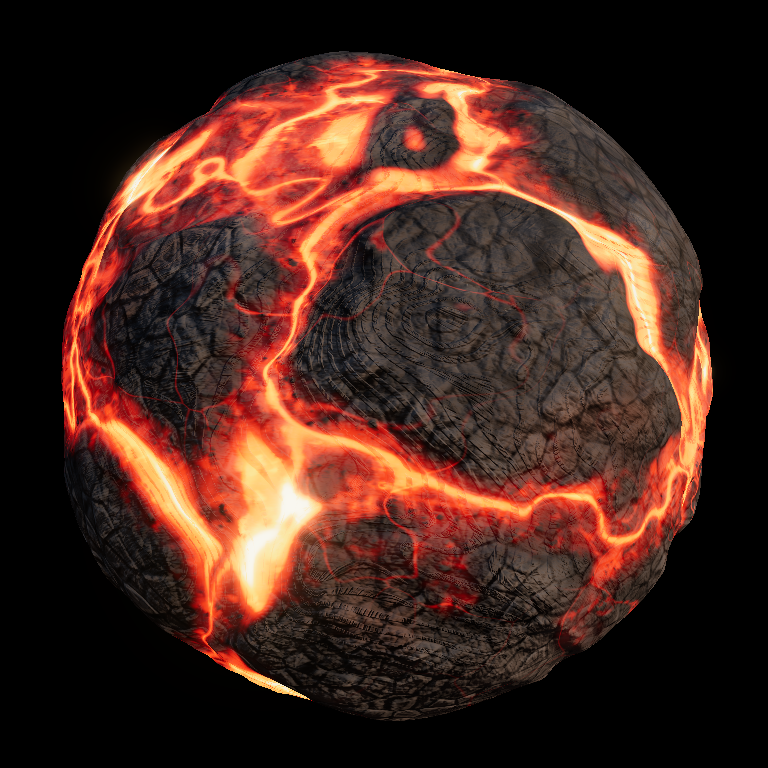
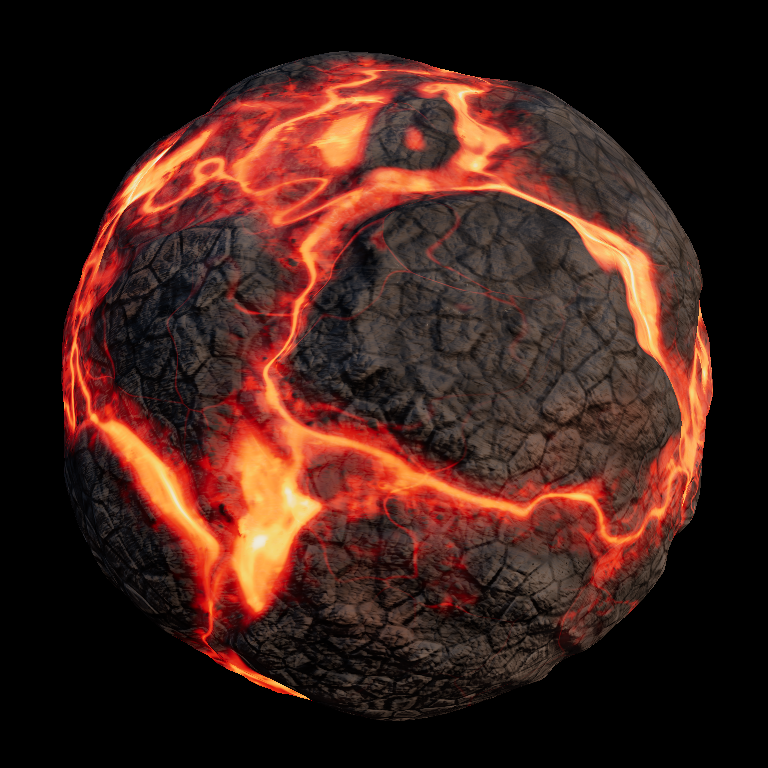
Replace line striations with a Substance-style cooling-skin field
The thin-cord formula never looked right: lines stayed line-like
however they were pinched. Following a Substance Designer lava
breakdown, meltSkin is now anisotropic streak noise under perlin
directional warps, soft like a blurred mask — streaks that widen,
merge, and die out organically. Where the skin fills in, the heat
drops AND the band carves out of the liquid mask, so cooled skin
shades as rock (albedo, roughness, PBR) instead of just dimming — the
fuller the band, the more rock it is. The skin embosses melt normals
only; the rock carries no lines at all now. Glow intensity drops to
1.6 and bloom tightens so the melt sits on the tonemapper's slope and
the skin texture survives instead of saturating to white. Preview
regenerated.

Claude-Session: https://claude.ai/code/session_016LagSa3e7nym5icJi3TRmZ

diff --git a/examples/three-tsl/src/lava-material.ts b/examples/three-tsl/src/lava-material.ts
@@ -4,7 +4,7 @@ import type { Node } from "three/webgpu";
 import lavaModule from "./lava.wgsl";
 import { tslExports } from "./wgsl-tsl.ts";
 
-const { lavaGlow, blackbody, crustHeight, crustRelief, crustSurface, crustPbr, lavaSink, microDetail, flowStriations } = tslExports(lavaModule, [
+const { lavaGlow, blackbody, crustHeight, crustRelief, crustSurface, crustPbr, lavaSink, microDetail, meltSkin } = tslExports(lavaModule, [
   "lavaGlow",
   "blackbody",
   "crustHeight",
@@ -13,7 +13,7 @@ const { lavaGlow, blackbody, crustHeight, crustRelief, crustSurface, crustPbr, l
   "crustPbr",
   "lavaSink",
   "microDetail",
-  "flowStriations",
+  "meltSkin",
 ]);
 
 export interface LavaMaterialOptions {
@@ -35,7 +35,7 @@ export interface LavaMaterial {
  * loader; three only sees TSL nodes.
  */
 export function createLavaMaterial(options: LavaMaterialOptions = {}): LavaMaterial {
-  const glowIntensity = uniform(2.4);
+  const glowIntensity = uniform(1.6);
   const scale = uniform(1.0);
   const t = options.timeNode ?? time;
 
@@ -138,21 +138,22 @@ export function createLavaMaterial(options: LavaMaterialOptions = {}): LavaMater
   ).div(microEps);
   const microTangent = microGrad.sub(normalLocal.mul(microGrad.dot(normalLocal)));
 
-  // The flow cords are physical wrinkles in the melt skin: finite-difference
-  // the striation field so each cord raises a small ridge, molten areas only.
-  const striaeEps = 0.004;
-  const striaeBase = flowStriations({ position: p, t });
-  const striaeGrad = vec3(
-    flowStriations({ position: p.add(vec3(striaeEps, 0, 0)), t }).sub(striaeBase),
-    flowStriations({ position: p.add(vec3(0, striaeEps, 0)), t }).sub(striaeBase),
-    flowStriations({ position: p.add(vec3(0, 0, striaeEps)), t }).sub(striaeBase),
-  ).div(striaeEps);
-  const striaeTangent = striaeGrad.sub(normalLocal.mul(striaeGrad.dot(normalLocal)));
+  // The cooled skin bands are physical ridges on the melt: finite-difference
+  // the skin field so they emboss the surface — molten areas only, the rock
+  // never carries these lines.
+  const skinEps = 0.006;
+  const skinBase = meltSkin({ position: p, t });
+  const skinGrad = vec3(
+    meltSkin({ position: p.add(vec3(skinEps, 0, 0)), t }).sub(skinBase),
+    meltSkin({ position: p.add(vec3(0, skinEps, 0)), t }).sub(skinBase),
+    meltSkin({ position: p.add(vec3(0, 0, skinEps)), t }).sub(skinBase),
+  ).div(skinEps);
+  const skinTangent = skinGrad.sub(normalLocal.mul(skinGrad.dot(normalLocal)));
 
   const bumped = normalLocal
     .sub(tangentGrad.mul(mix(float(0.16), float(0.04), molten)))
     .sub(microTangent.mul(mix(float(0.022), float(0.008), molten).mul(microFade)))
-    .sub(striaeTangent.mul(mix(float(0.006), float(0.012), molten).mul(striaeFade)))
+    .sub(skinTangent.mul(molten.mul(0.014).mul(striaeFade)))
     .normalize();
   material.normalNode = transformNormalToView(bumped);
 

diff --git a/examples/three-tsl/scripts/field-viz.ts b/examples/three-tsl/scripts/field-viz.ts
@@ -3,7 +3,7 @@
 // (heat through the blackbody ramp, melt mask, striations, crust height)
 // on the same 2D slice the plane demo shows.
 //
-//   pnpm --filter @vgpu/example-three-tsl field-viz [heat|melt|striae|crust ...]
+//   pnpm --filter @vgpu/example-three-tsl field-viz [heat|melt|skin|crust ...]
 //
 // Needs the same Vulkan ICD environment as generate-previews.ts.
 import { mkdirSync, writeFileSync } from "node:fs";
@@ -17,11 +17,11 @@ const FRAME_TIME = 8;
 const EXAMPLE_DIR = fileURLToPath(new URL("../", import.meta.url));
 const OUT_DIR = `${EXAMPLE_DIR}field-viz/`;
 
-const MODES: Record<string, number> = { heat: 0, melt: 1, striae: 2, crust: 3 };
+const MODES: Record<string, number> = { heat: 0, melt: 1, skin: 2, crust: 3 };
 
 const VIZ_ENTRY = `${OUT_DIR}entry.wgsl`;
 const VIZ_SOURCE = /* wgsl */ `
-import { lavaGlow, flowStriations, blackbody, crustHeight } from "../src/lava.wgsl";
+import { lavaGlow, meltSkin, blackbody, crustHeight } from "../src/lava.wgsl";
 
 struct Params { mode: f32, t: f32, span: f32, center: vec2f }
 @group(0) @binding(0) var<uniform> params: Params;
@@ -36,8 +36,8 @@ struct Params { mode: f32, t: f32, span: f32, center: vec2f }
     let melt = lavaGlow(p, params.t).y;
     return vec4f(melt, melt, melt, 1.0);
   } else if (params.mode < 2.5) {
-    let striae = flowStriations(p, params.t);
-    return vec4f(striae, striae, striae, 1.0);
+    let skinValue = meltSkin(p, params.t);
+    return vec4f(skinValue, skinValue, skinValue, 1.0);
   }
   let height = crustHeight(p, params.t);
   return vec4f(height, height, height, 1.0);

diff --git a/examples/three-tsl/tests/wgsl-tsl.test.ts b/examples/three-tsl/tests/wgsl-tsl.test.ts
@@ -61,7 +61,7 @@ describe("tslExports over a vgpu-resolved module", () => {
     const entry = fileURLToPath(new URL("../src/lava.wgsl", import.meta.url));
     const resolved = await resolveShader({ entry });
 
-    const names = ["lavaGlow", "flowStriations", "blackbody", "crustHeight", "crustSurface", "crustPbr", "lavaSink", "microDetail"] as const;
+    const names = ["lavaGlow", "meltSkin", "blackbody", "crustHeight", "crustSurface", "crustPbr", "lavaSink", "microDetail"] as const;
     const nodes = tslExports(resolved.wgsl, names);
     for (const name of names) expect(typeof nodes[name]).toBe("function");
 

diff --git a/examples/three-tsl/src/post.ts b/examples/three-tsl/src/post.ts
@@ -16,7 +16,7 @@ export function createBloomPipeline(
   const postProcessing = new THREE.PostProcessing(renderer);
   const scenePass = pass(scene, camera, { samples: options.samples ?? 4 });
   const sceneColor = scenePass.getTextureNode();
-  const bloomNode = bloom(sceneColor, 0.42, 0.2, 1.6);
+  const bloomNode = bloom(sceneColor, 0.3, 0.15, 1.7);
   postProcessing.outputNode = sceneColor.add(bloomNode);
   return postProcessing;
 }

diff --git a/examples/three-tsl/README.md b/examples/three-tsl/README.md
@@ -46,13 +46,14 @@ TSL nodes:
 - `lavaGlow` — the full glow composition as `vec2f(heat, meltMask)`:
   variable-width incandescent cracks along fbm-warped voronoi plate
   boundaries (`f2 - f1` from `@vgpu/wgsl-std/noise`); melt washes flanking
-  the channels, textured by `flowStriations` (thin cooled cords fanning
-  through the melt skin, ~50 per lobe) with white-hot contact rims at wash
-  edges and around floating crust islands; and a fringe over solid crust —
-  a wide thermal gradient toward the melt plus ember speckle seeping
-  through the micro grain. The cords swing boldly between fat bands and
-  hairlines via a bimodal width field, and only mark the melt, never the
-  rock.
+  the channels, textured by `meltSkin` — a Substance-style cooling-skin
+  field (anisotropic streak noise under perlin directional warps, soft like
+  a blurred mask) whose filled-in bands drop the heat AND carve out of the
+  liquid mask, so cooled skin shades as rock again — plus white-hot contact
+  rims at wash edges and around floating crust islands; and a fringe over
+  solid crust — a wide thermal gradient toward the melt plus ember speckle
+  seeping through the micro grain. The skin field embosses the melt
+  normals; the rock never carries these lines.
 - `blackbody` — incandescence ramp (black → deep red → orange → yellow-white)
   feeding `emissiveNode` with HDR intensity under ACES tone mapping.
 - `crustHeight` — plate relief plus pahoehoe rope folds on lobe patches,
